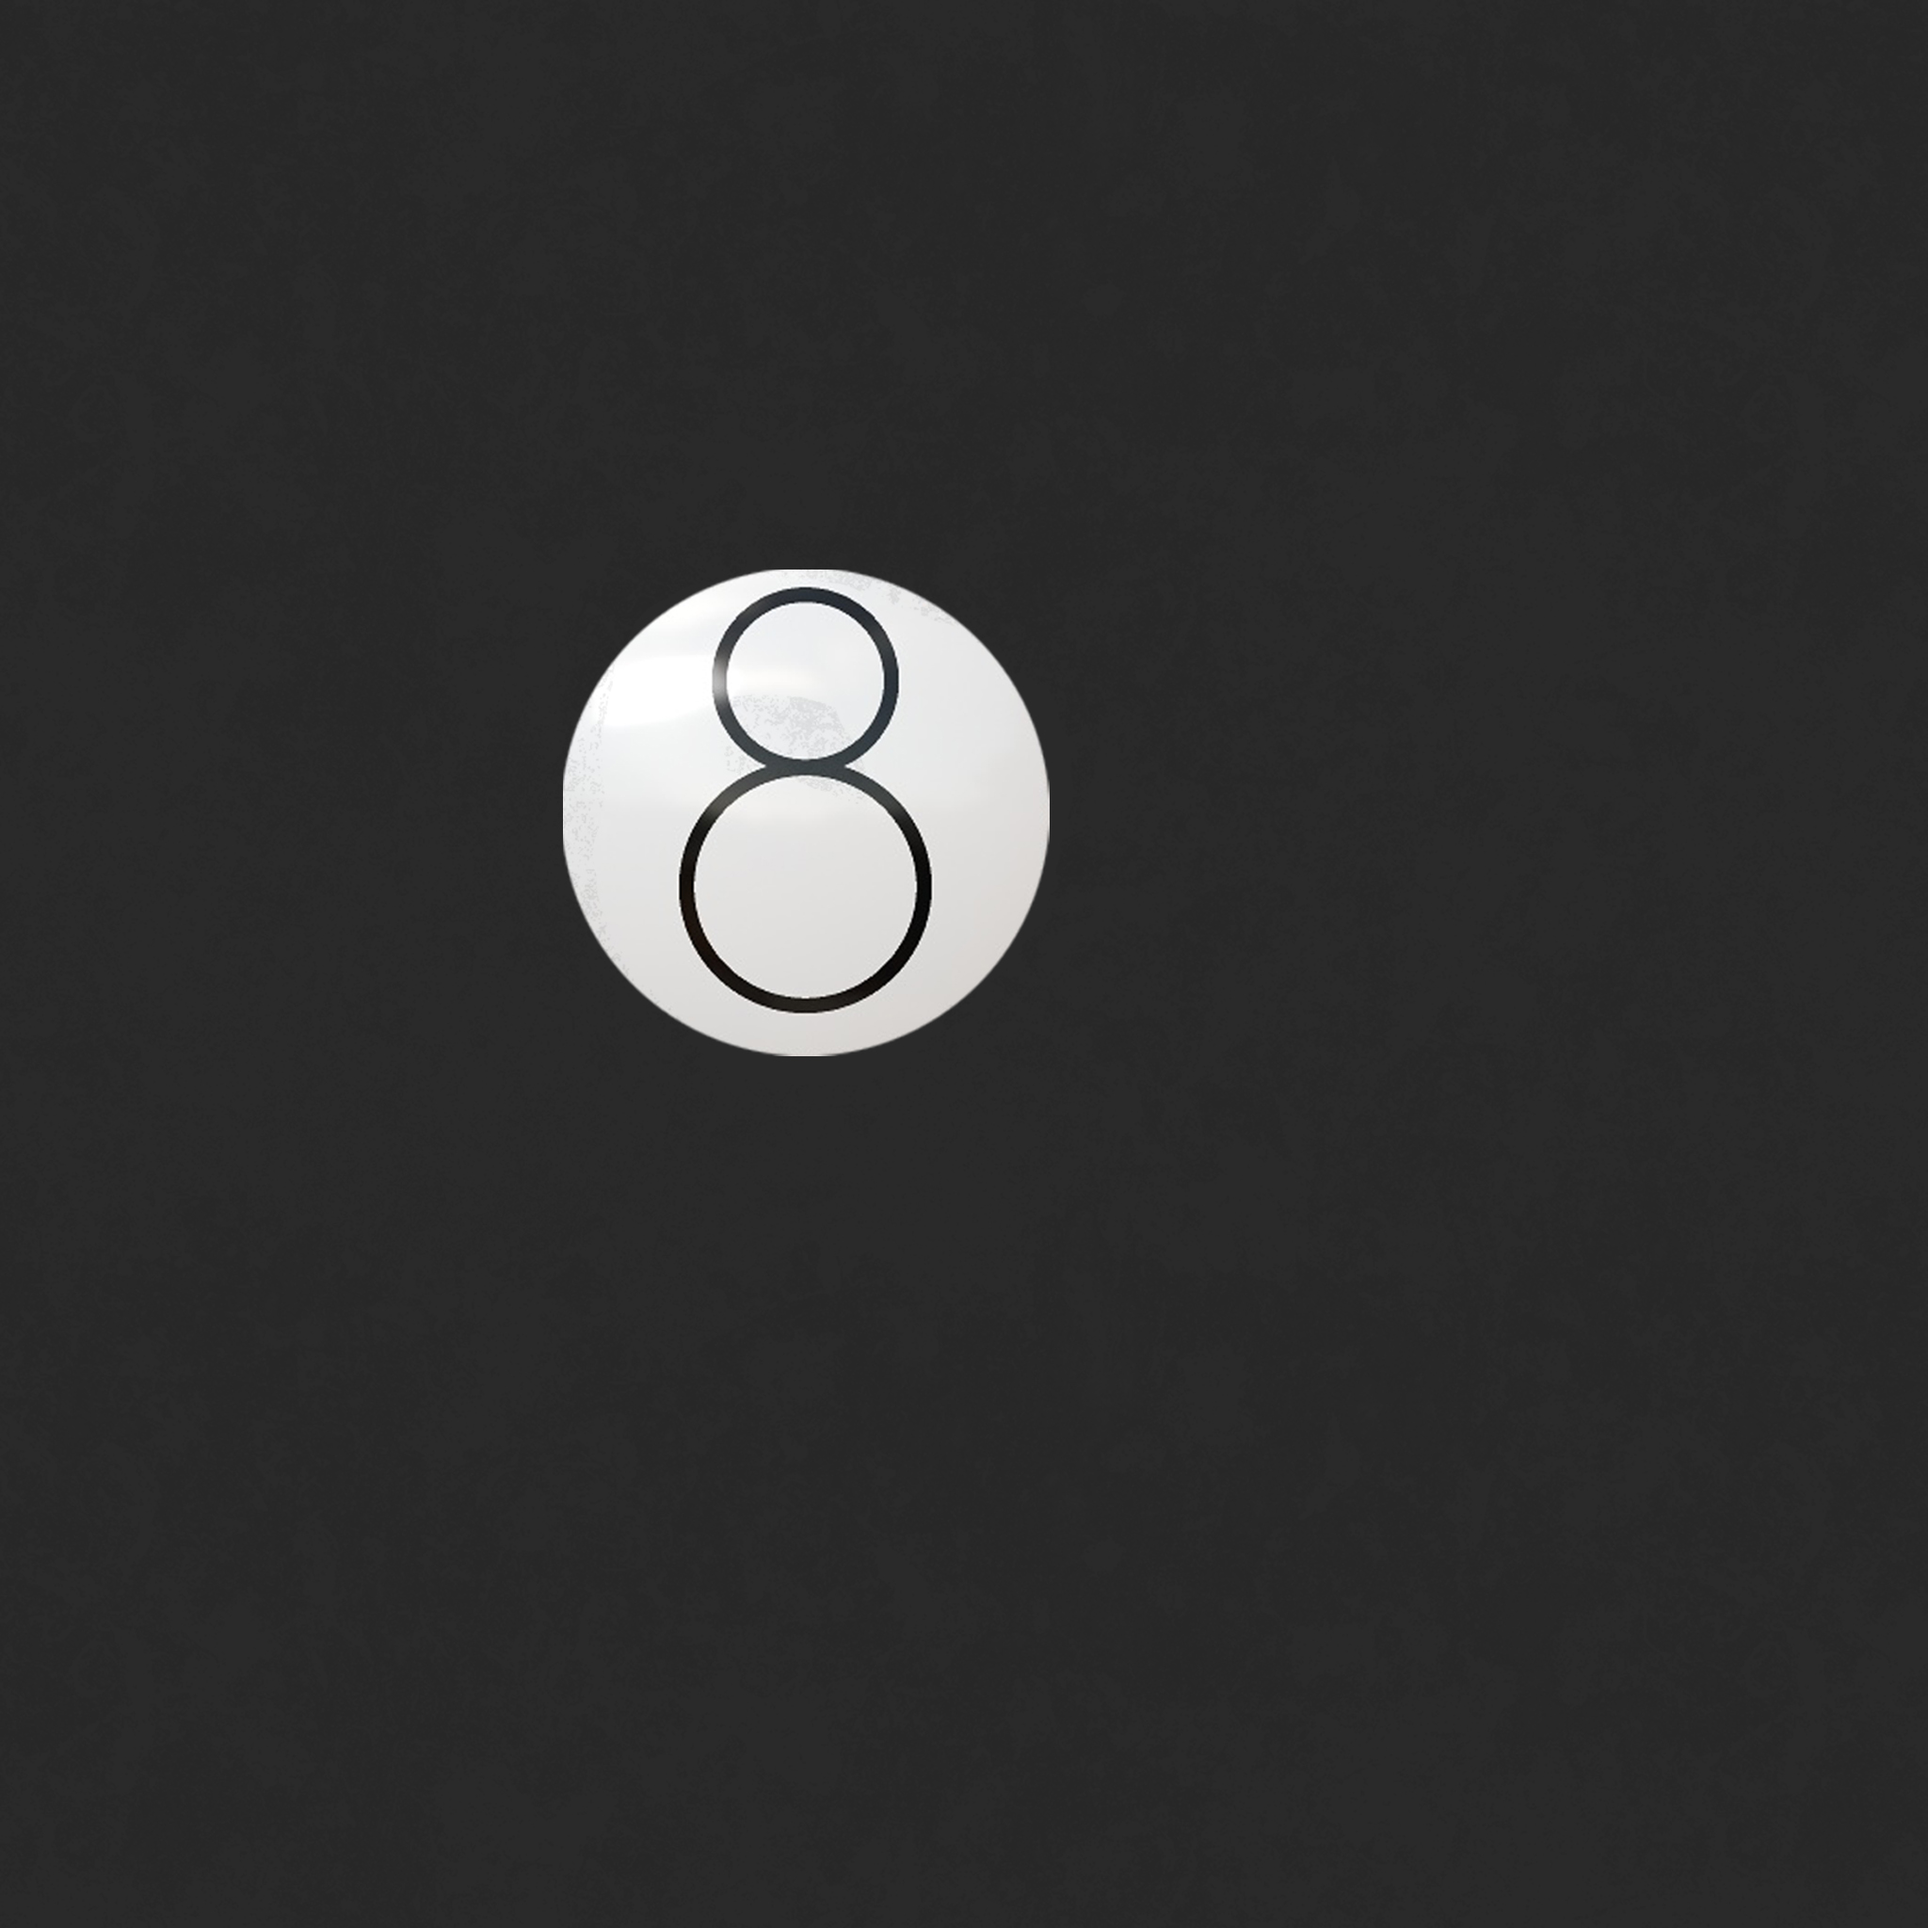
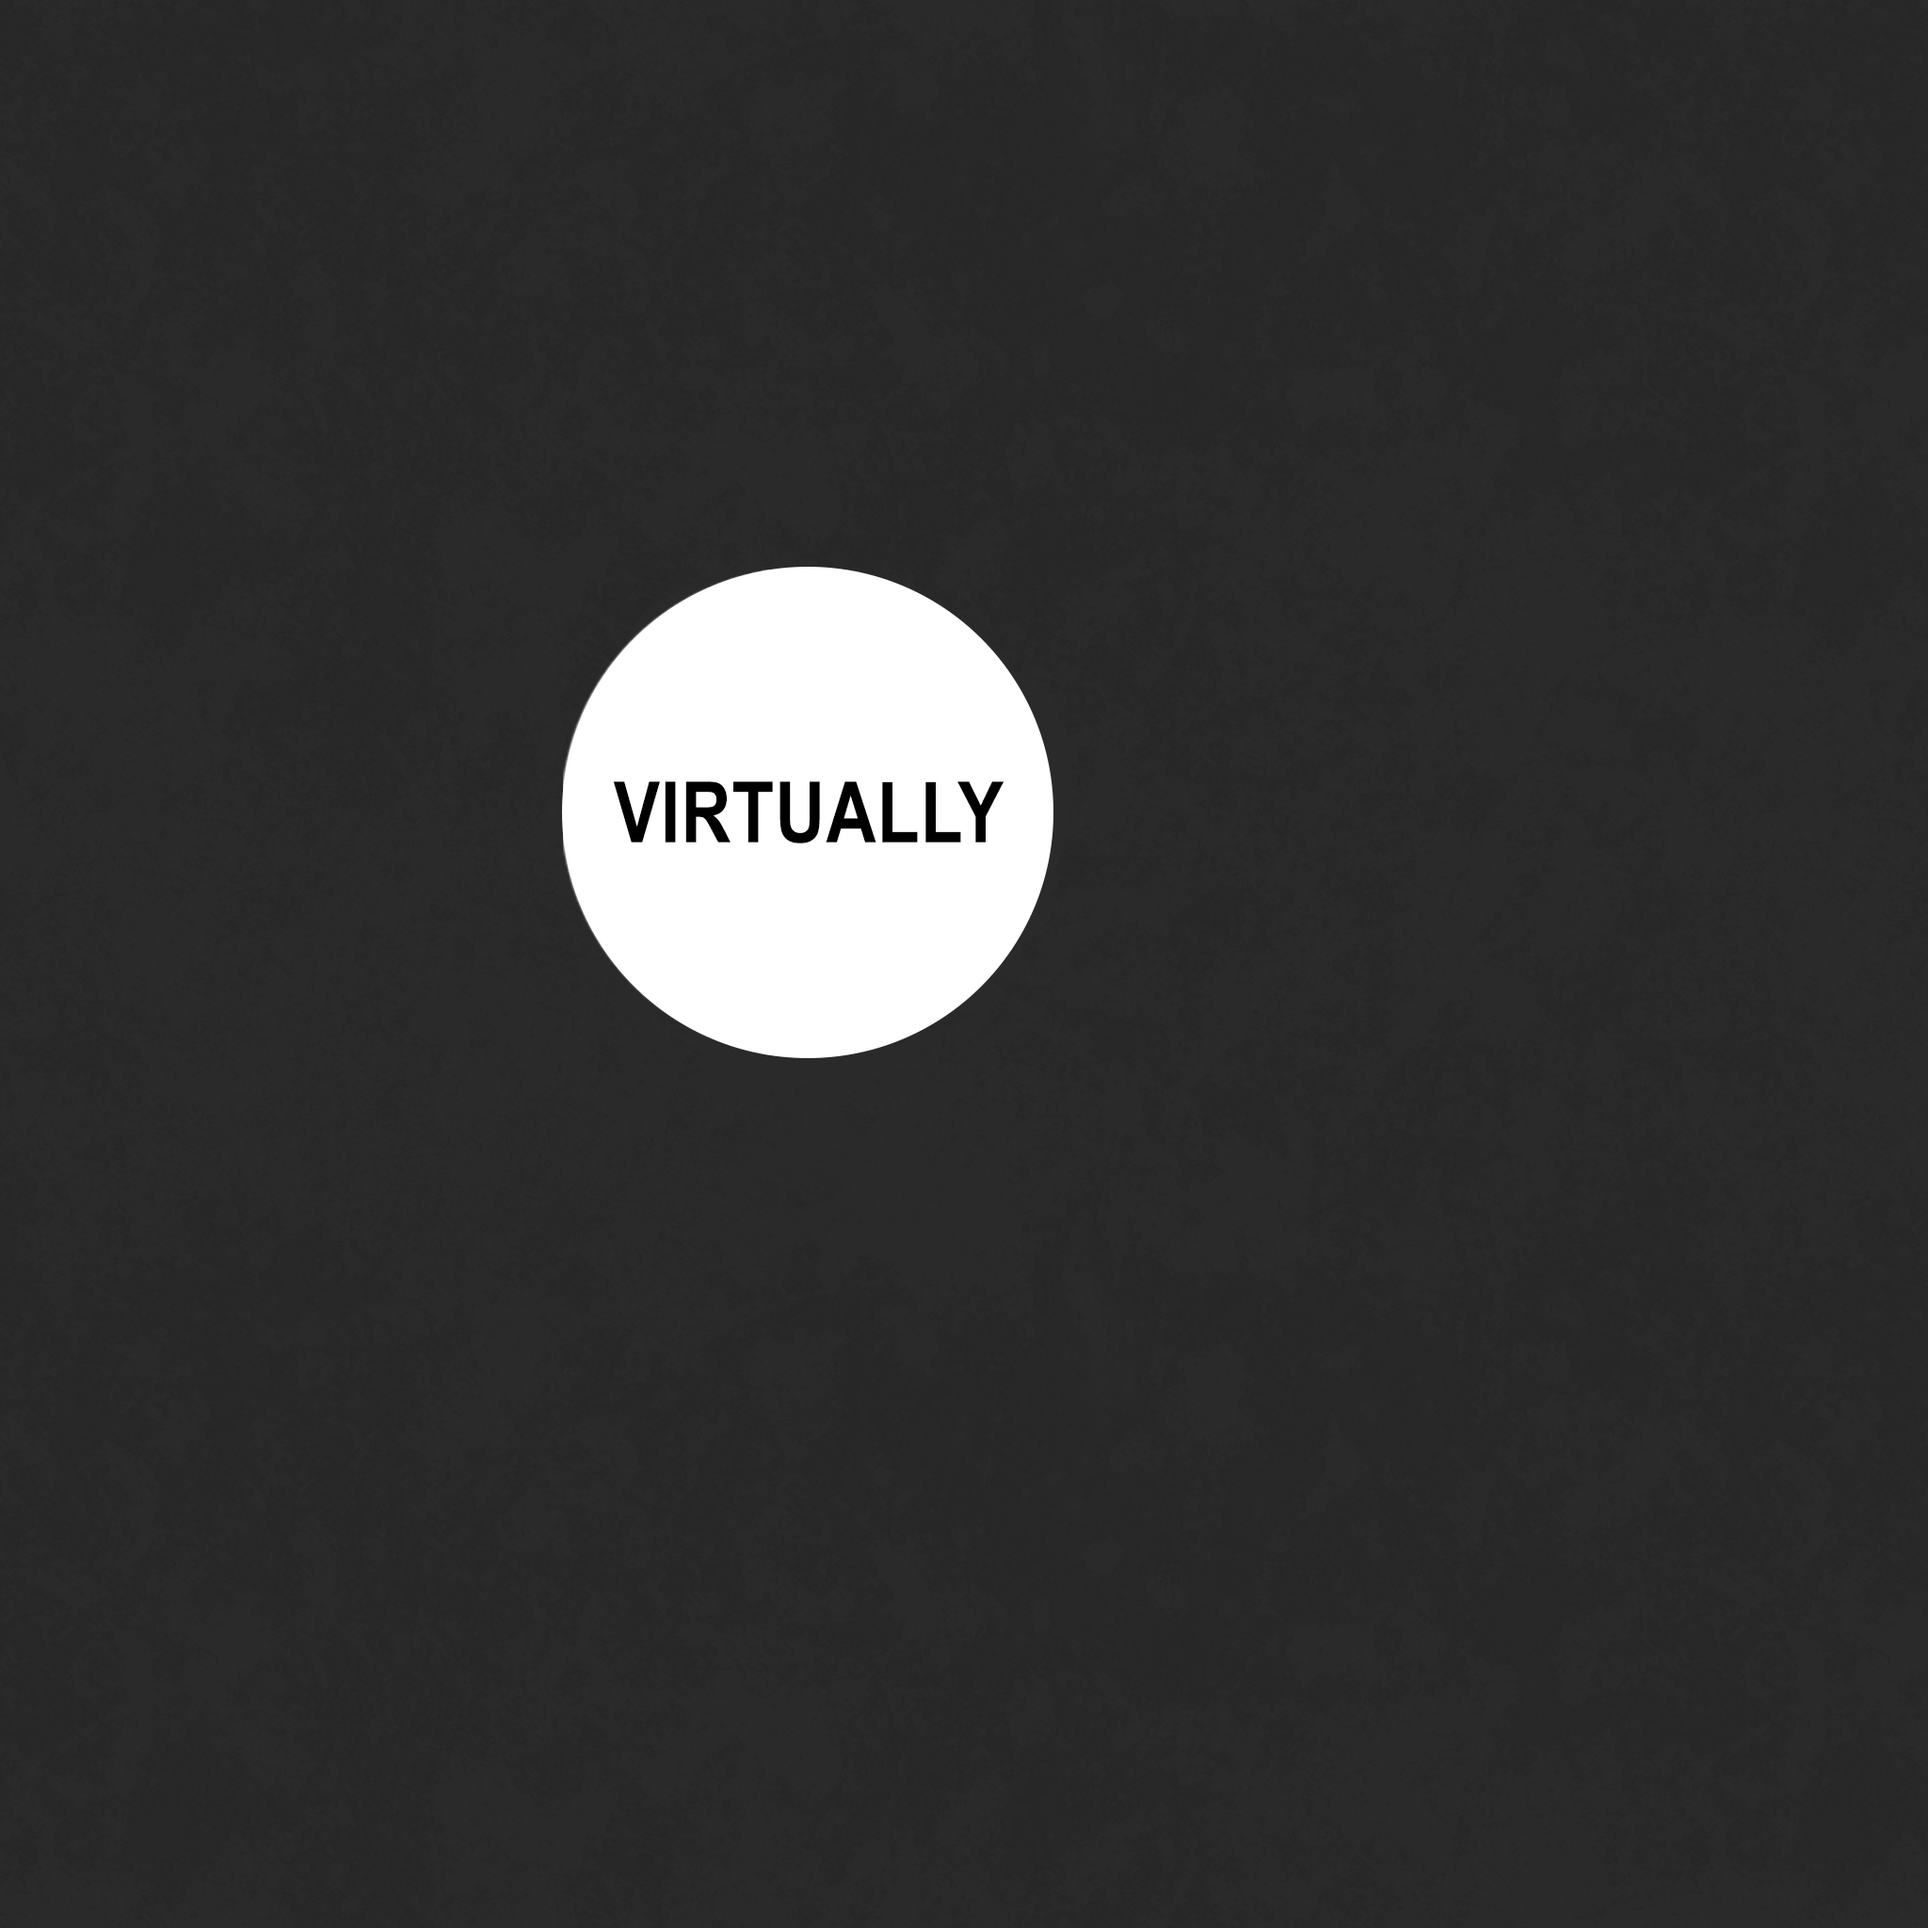
Added real/virtually to magic 8-ball

Changed region(s): [[0.2812, 0.2812, 0.5625, 0.5625]]

diff --git a/style.css b/style.css
@@ -84,25 +84,25 @@ h6 {
   letter-spacing: 2px;
 }
 
-div.cursor {
+/* div.cursor {
   position: absolute;
   width: 300px;
   height: 450px;
   background-image: url(lib/virtually.png);
   background-repeat: no-repeat;
   z-index: 10000;
-}
+} */
 
-a:hover {
+/* a:hover {
   cursor: none !important;
-}
+} */
 
 main {
   display: flex;
   flex-direction: column;
   align-items: center;
   /* padding: 50px 50px 50px 50px; */
-  cursor: none;
+  /* cursor: none; */
 }
 
 section.8-ball {
@@ -280,6 +280,10 @@ section.clock {
 
 /* Media Queries ====================  */
 @media only screen and (max-width: 1024px) {
+
+  /* div.cursor {
+    display: none;
+  } */
 
   /* Header ==================  */
   section.title {

diff --git a/8-ball.js b/8-ball.js
@@ -160,7 +160,7 @@ else {
     // window width is greater than 1024px ===============================================================================================================================================
 
     const camera = new THREE.PerspectiveCamera(30, window.innerWidth / window.innerHeight, 0.1, 10000 )
-    camera.position.z = -125
+    camera.position.z = -155
 
     // Animation loop
 

diff --git a/index.html b/index.html
@@ -14,7 +14,7 @@
 
 <body id="parent">
 <main id="child">
-  <div class="cursor"></div>
+  <!-- <div class="cursor"></div> -->
 
   <section class="8-ball" id="8-ball"></section>
 
